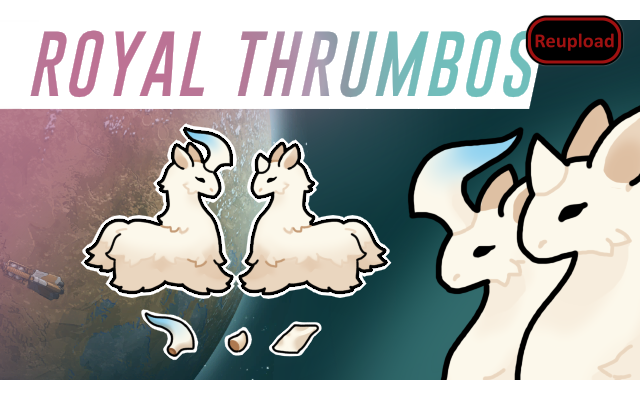
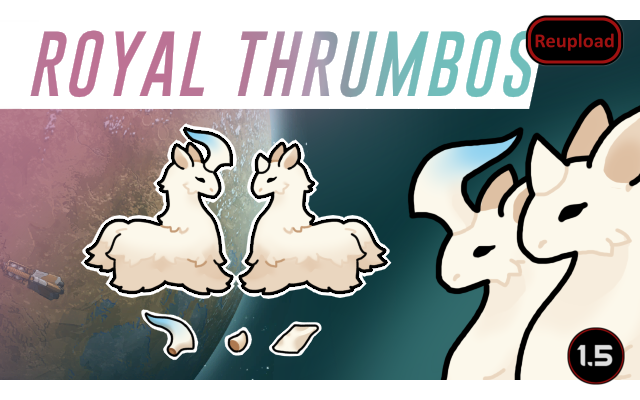
Mod updated for 1.5 and passed autotests

Changed region(s): [[0.875, 0.81, 1.0, 0.96]]

diff --git a/Source/RoyalThrumbos/PawnKindDef_RoyalThrumbo.cs b/Source/RoyalThrumbos/PawnKindDef_RoyalThrumbo.cs
@@ -1,0 +1,15 @@
+using RimWorld;
+using Verse;
+
+namespace RoyalThrumbos;
+
+[DefOf]
+public static class PawnKindDef_RoyalThrumbo
+{
+    public static PawnKindDef RoyalThrumbo;
+
+    static PawnKindDef_RoyalThrumbo()
+    {
+        DefOfHelper.EnsureInitializedInCtor(typeof(PawnKindDef_RoyalThrumbo));
+    }
+}

diff --git a/Source/RoyalThrumbos/ThingDef_RoyalThrumbo.cs b/Source/RoyalThrumbos/ThingDef_RoyalThrumbo.cs
@@ -1,0 +1,15 @@
+using RimWorld;
+using Verse;
+
+namespace RoyalThrumbos;
+
+[DefOf]
+public static class ThingDef_RoyalThrumbo
+{
+    public static ThingDef RoyalThrumbo;
+
+    static ThingDef_RoyalThrumbo()
+    {
+        DefOfHelper.EnsureInitializedInCtor(typeof(ThingDef_RoyalThrumbo));
+    }
+}

diff --git a/Source/RoyalThrumbos/Main.cs b/Source/RoyalThrumbos/Main.cs
@@ -7,7 +7,7 @@ namespace RoyalThrumbos;
 [StaticConstructorOnStartup]
 public static class Main
 {
-    public static ThingDef FemaleHorn;
+    public static readonly ThingDef FemaleHorn;
 
     static Main()
     {

diff --git a/README.md b/README.md
@@ -34,9 +34,13 @@ Goob – Original Textures
 
 -  See if the the error persists if you just have this mod and its requirements active.
 -  If not, try adding your other mods until it happens again.
--  Post your error-log using https://steamcommunity.com/workshop/filedetails/?id=818773962]HugsLib and command Ctrl+F12
+-  Post your error-log using https://steamcommunity.com/workshop/filedetails/?id=818773962]HugsLib or the standalone https://steamcommunity.com/sharedfiles/filedetails/?id=2873415404]Uploader and command Ctrl+F12
 -  For best support, please use the Discord-channel for error-reporting.
 -  Do not report errors by making a discussion-thread, I get no notification of that.
 -  If you have the solution for a problem, please post it to the GitHub repository.
+-  Use https://github.com/RimSort/RimSort/releases/latest]RimSort to sort your mods
 
+
+
+https://steamcommunity.com/sharedfiles/filedetails/changelog/2846919540]![Image](https://img.shields.io/github/v/release/emipa606/RoyalThrumbos?label=latest%20version&style=plastic&color=9f1111&labelColor=black)
 
